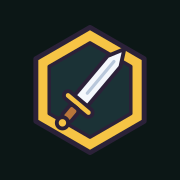
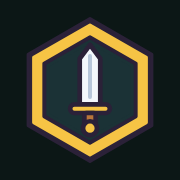
Add files via upload

Changed region(s): [[0.1389, 0.0833, 0.8611, 0.9167]]

diff --git a/index.html b/index.html
@@ -501,7 +501,7 @@ body{text-wrap:pretty;}
 .ts-cheer{display:none;}
 .ts-logo{position:absolute; left:0; right:0; top:calc(12vh + env(safe-area-inset-top,0px)); text-align:center; animation:tsDrop .8s cubic-bezier(.3,1.5,.5,1) both;}
 .ts-logo svg{display:block; width:min(86%,400px); height:auto; margin:0 auto;}
-.ts-sub{display:inline-block; margin-top:2px; font-family:var(--disp); font-size:18px; letter-spacing:.04em; background:#2B2138; color:#FFF3B0; padding:2px 16px 3px; border-radius:999px;}
+.ts-sub{display:inline-block; margin-top:2px; font-family:var(--disp); font-size:18px; letter-spacing:.04em; background:#2B2138; color:#FFF3B0; padding:4.5px 16px .5px; border-radius:999px;}
 @keyframes tsDrop{from{transform:translateY(-40px); opacity:0;}to{transform:none; opacity:1;}}
 .ts-info{position:absolute; top:calc(12px + env(safe-area-inset-top,0px)); font-size:13px; font-weight:700; background:rgba(20,14,34,.35); padding:2px 10px; border-radius:999px;}
 .ts-day{left:14px;} .ts-ver{right:14px; font-weight:500;}
@@ -1321,7 +1321,7 @@ var D = {
   sideplank:'옆으로 누워 팔꿈치로 몸을 받치고 일자로 버티는 동작이에요.',
   sidelift:'옆으로 누워 몸을 일자로 둔 채, 위쪽 다리를 천천히 들어 올렸다 내리는 동작이에요. 허벅지 바깥과 엉덩이 옆 근육을 써요.',
   inchworm:'서서 허리를 숙여 손으로 바닥을 걸어 플랭크 자세까지 갔다가, 다시 손으로 걸어 돌아와 일어서는 동작이에요.',
-  s1:'고개를 옆으로 기울이고 손으로 살짝 눌러 목과 어깨 옆을 늘려요.',
+  s1:'고개를 옆으로 기울이고 손으로 살짝 눌러 목과 어깨\u00a0옆을\u00a0늘려요.',
   s2:'문틀에 팔을 걸고 몸을 앞으로 내밀어 가슴 앞쪽을 늘려요.',
   s3:'한쪽 발목을 잡아 엉덩이 쪽으로 당겨 허벅지 앞을 늘리고, 앉아서 다리를 펴 뒤쪽도 늘려요.',
   s4:'벽을 밀며 한 다리를 뒤로 빼고, 뒤꿈치를 바닥에 붙여 종아리를 늘려요.'
@@ -1367,8 +1367,12 @@ function bStar(cx,cy,r,fill){
   return '<polygon points="'+p.join(' ')+'" fill="'+fill+'" stroke="'+OL+'" stroke-width="2" stroke-linejoin="round"/>';
 }
 /* ---------- 앱 버전 ---------- */
-var APP_VER='1.46.2', APP_DATE='2026-10-06', showChg=false;
+var APP_VER='1.46.6', APP_DATE='2026-10-07', showChg=false;
 var CHANGES=[
+  ['1.46.6','시작화면을 다듬었어요. 수요일 먼 산의 탑 꼭대기가 잘려 보이던 것을 고쳤어요. 부제목 "몸짱용사의 모험" 글씨가 알약 모양 칸의 정가운데에 오도록 맞췄어요'],
+  ['1.46.5','앱 아이콘을 새로 바꿨어요. 랭크 배지와 같은 금빛 육각형 안에 검이 똑바로 서 있어요. 이미 설치한 폰에서는 아이콘이 바로 바뀌지 않을 수 있어요'],
+  ['1.46.4','첫 주 안내를 더 부드럽게 했어요. 첫 마왕전이 있는 토요일에도 주간 퀘스트 카드가 빨간 "못 미쳤어요" 대신 "첫 주는 연습전이에요"로 보여요. 일요일에 처음 시작하면 시작하기 전의 주를 "패배한 주"라고 하지 않고 "이번 주는 시작하기 전이었어요"로 보여 줘요'],
+  ['1.46.3','새싹의 길에서 "쉬운 동작" 안내 문장을 자연스럽게 고쳤어요(예: "처음엔 발 간격을 넓혀서 해 봐요"). 자세 팁의 "~로·으로" 조사도 바로잡았어요. 첫 7일 안에는 주간 퀘스트 카드가 빨간 "어려워요" 대신 "첫 주는 연습전이에요"로 보여요. 달리기와 걷기 안내가 줄 끝에서 갈라지지 않게 다듬었어요'],
   ['1.46.2','식단 사이드 퀘스트와 반디 안내의 줄바꿈을 다듬었어요. 긴 안내 글의 마지막 줄에 짧은 말만 남지 않게 하고, "사용 중"·"한 끼"처럼 붙어 있어야 할 말이 갈라지지 않게 했어요'],
   ['1.46.1','식단 사이드 퀘스트 문구를 누구나 따라 하기 쉽게 바꿨어요. 점심과 운동 후 식사는 예시를 보고 고를 수 있고, 영주의 특별보급은 오늘의 연회로 이름을 바꾸고 설명을 더했어요'],
   ['1.46.0','테스트 기간에는 앱을 연 날짜가 기록돼요. 로그인하면 개발자가 볼 수 있어요. 처형 기술 이름 몸짱일도양단은 일도양단으로 바꿨어요'],
@@ -4879,7 +4883,7 @@ function altHtml(k,L,lock){
   h+='<ol>'+R.steps.map(function(t){ return '<li>'+t+'</li>'; }).join('')+'</ol>';
   h+='<ul class="altmv">'+ALT_MOVES.map(function(m){ return '<li><b>'+m[0]+'</b> · '+m[1]+' '+vidQ(ALT_VID[m[0]]||m[0])+'</li>'; }).join('')+'</ul>';
   h+='<p class="note" style="margin:6px 0 8px">점프 없이 발이 바닥에서 떨어지지 않는 동작만 골랐어요. 요가 매트나 푹신한 슬리퍼를 쓰면 소리가 더 줄어요. 늦은 밤에는 섀도복싱과 서서 니업 크런치 위주로 해도 좋아요. 통증이 있으면 바로 멈춰요.</p>';
-  var sub=(need&&!sv)?'먼저 위에서 이유를 골라 주세요':'거리(km)는 올라가지 않지만 XP와 퀘스트 완료는 러닝·걷기와 똑같이 인정돼요';
+  var sub=(need&&!sv)?'먼저 위에서 이유를 골라 주세요':'거리(km)는 올라가지 않지만 XP와 퀘스트 완료는 러닝과 걷기와 똑같이 인정돼요';
   h+=check(!!L.alt,'실내 유산소 완료',sub,'alt','',lock||!st.can||(need&&!sv),runXpOn(k));
   return h+'</div>';
 }
@@ -5380,8 +5384,10 @@ function weeklyHtml(d){
   }else{
     msg=W.allOver?(W.cur+' XP로 '+G+' XP에 못 미'+(sp?'친 주였어요':'쳤어요')):('이번 주는 최대 '+W.mx+' XP라 마왕성 도전이 어려워요');
     sub=W.allOver?(sp?'마왕의 저주로 마왕성에서 패배한 주였어요.':'마왕의 저주로 마왕성에서는 패배하는 주예요.'):'남은 날을 모두 채워도 '+G+' XP에 닿지 못해요.';
+    if((!W.allOver || !sp) && firstWeekFree(addDays(W.mon,5))){ st='go'; msg='첫 주는 연습전이에요'; }   /* v1.46.4: 첫 마왕전 당일(토요일)에도 같아요 */   /* v1.46.3: 새 사용자에게 첫날부터 빨간 "어려워요"를 보이지 않아요 */
     if(firstWeekFree(addDays(W.mon,5))) sub=(W.allOver?(sp?'시작한 첫 7일 안의 마왕전이라 마왕의 저주 없이 연습전으로 끝난 주였어요.':'시작한 첫 7일 안의 마왕전이라 마왕의 저주 없이 연습전으로 치러요.'):'시작한 첫 7일 안의 마왕전이라, 못 채워도 마왕의 저주는 없어요.');
-    if(tOpen && !tBuilt) sub+=' 왕국에서 훈련장을 복구하면 XP를 보충할 수 있어요.';
+    if(W.cur===0 && fmt(addDays(W.mon,5))<fmt(parse(S.start))){ st='go'; msg='이번 주는 시작하기 전이었어요'; sub='시작한 첫 7일 안의 마왕전은 연습전이라, 못 채워도 마왕의 저주는\u00a0없어요.'; }   /* v1.46.4: 시작하기 전 주에 \"패배한 주\"라고 하지 않아요 */
+    if(tOpen && !tBuilt) sub+=' 왕국에서 훈련장을 복구하면 XP를 보충할\u00a0수\u00a0있어요.';
   }
   var dd=W.days.map(function(x){
     return '<div class="wq-day'+(x.done?' done':'')+(x.isT?' cur':'')+(x.fut?' fut':'')+'"><small>'+x.lab+(x.isT?' · 오늘':'')+'</small><b>'+(x.fut?'–':x.xp)+'</b></div>';
@@ -5392,12 +5398,16 @@ function weeklyHtml(d){
     '<p class="wq-st">'+msg+'</p>'+(sub?'<p class="wq-sub">'+sub+'</p>':'')+'<div class="wq-days">'+dd+'</div></section>';
 }
 
+/* v1.46.3 새싹의 길 "쉬운 동작" 문장(예전 "처음엔 ○○(으)로 시작해요" 틀은 문장이 어색한 동작이 많았어요) / 받침에 맞는 "로·으로" */
+var EASYS={pushup:['무릎 푸시업','부터 해 봐요'],pike:['엉덩이를 낮춘 파이크','부터 해 봐요'],dips:['무릎을 굽혀서',' 해 봐요'],squat:['의자에 앉았다 일어나기','부터 해 봐요'],lunge:['벽을 잡고 런지','부터 해 봐요'],bridge:['발 간격을 넓혀서',' 해 봐요'],calf:['양발 동시에',' 해 봐요'],crunch:['팔을 무릎 쪽으로 뻗는 동작','부터 해 봐요'],legraise:['무릎을 굽힌 레그 레이즈','부터 해 봐요'],bicycle:['천천히',' 해 봐요'],deadbug:['팔만 움직이는 동작','부터 해 봐요'],superman:['팔과 다리를 번갈아',' 들어 봐요'],snow:['팔을 낮게',' 들고 해 봐요'],ytw:['가슴을 바닥에 둔 채 팔만 드는 동작','부터 해 봐요'],bulg:['뒤 발을 바닥에 두고',' 해 봐요'],sidelift:['무릎을 굽힌 채 올리는 동작','부터 해 봐요'],inchworm:['무릎을 굽힌 채로',' 해 봐요'],plank:['무릎 플랭크','부터 해 봐요'],mtn:['천천히 걷듯이',' 해 봐요'],wallsit:['조금 높게 앉아서',' 해 봐요'],sideplank:['무릎을 굽혀서',' 해 봐요']};
+function easyHtml(id,e){ var a=EASYS[id]||[e.e,' 해 봐요']; return '처음엔 <b>'+a[0]+'</b>'+a[1]; }
+function roP(t){ t=String(t); var c=t.charCodeAt(t.length-1), f; if(c>=0xAC00 && c<=0xD7A3){ f=(c-0xAC00)%28; return (f===0||f===8)?'로':'으로'; } return '으로'; }
 function viewToday(){
   var d=sel, k=fmt(d), dk=DK[d.getDay()], p=PLAN[dk], L=rd(k), dfc=diffOn(k), st=(dfc==='sprout')?Math.min(stageIdx(),1):stageIdx(), c=count(d);
   var isToday=(k===fmt(TODAY)), ids=idsFor(dk,k), lock=isEnded(k), lockM=lock||!!L.fin, rs=dayResult(d), bossHtml='';
   if(p.circuit){
     bossHtml='<div class="bossrule">'+
-      '<p>'+SAT_GOAL+' XP 이상이면 마왕성에서 승리할 수 있어요 (+150 XP 보너스). 못 미치거나 오늘 메인 퀘스트와 러닝·걷기를 못 채우고 모험을 마치면 패배해요.'+(firstWeekFree(d)?' 시작한 첫 7일 안의 마왕전이라 XP가 모자라도 마왕의 저주는 없어요.':'')+'</p></div>';
+      '<p>'+SAT_GOAL+' XP 이상이면 마왕성에서 승리할 수 있어요 (+150 XP 보너스). 못 미치거나 오늘 메인 퀘스트와 러닝과 걷기를 못 채우고 모험을 마치면 패배해요.'+(firstWeekFree(d)?' 시작한 첫 7일 안의 마왕전이라 XP가 모자라도 마왕의 저주는 없어요.':'')+'</p></div>';
   }
   var maxXp = 3*XP_MEAL+XP_CLEAR+(p.circuit?BOSS_WIN_XP:(p.rest?0:MID_XP)); ids.forEach(function(id){ maxXp+=xpOf(id,k); });
   var h='<p class="eyebrow">'+longDate(d)+(isToday?' · 오늘':'')+'</p>'+hud()+weeklyHtml(d);
@@ -5415,13 +5425,13 @@ function viewToday(){
 
   var run = p.rest?RUN_REST:RUN, rmin=runMinOn(k);
   if(!p.rest && dfc!=='body'){
-    run={label:(dfc==='sprout'?'걷기 또는 달리기 '+rmin+'km':'러닝 또는 걷기 '+rmin+'km'),sub:rmin+'km 이상 입력하면 완료'+(dfc==='sprout'?' · 걷기만으로도 충분해요':'')+((dfc==='adv'&&(dk==='wed'||dk==='fri'))?' · 어제 하체 운동을 했으니 가볍게 걷거나 천천히 뛰어도 인정돼요':'')};
+    run={label:(dfc==='sprout'?'걷기 또는 달리기 '+rmin+'km':'러닝 또는 걷기 '+rmin+'km'),sub:rmin+'km 이상 입력하면 완료'+(dfc==='sprout'?'돼요. 걷기만으로도 충분해요':'')+((dfc==='adv'&&(dk==='wed'||dk==='fri'))?'돼요. 어제 하체 운동을 했으니 가볍게 걷거나 천천히 뛰어도 인정돼요':'')};
   }
   if(hasRun(dk,k)){
     h+='<h2>'+(p.rest?'일일 러닝':'러닝 또는 걷기')+'</h2><div class="q">'+(p.rest?check(!!L.done.run,run.label,run.sub,'run','',lock,XP_RUN):runRow(!!L.done.run,run.label,run.sub,runXpOn(k)))+kmRow(L,p.rest,lockM,k)+'</div>';
     if(!p.rest) h+=altHtml(k,L,lockM);
   }else{
-    h+='<p class="note" style="margin:14px 2px 0">오늘은 '+themeOf(dk,k).replace(/ ·.*$/,'')+'이에요. 러닝·걷기는 쉬어요.</p>';
+    h+='<p class="note" style="margin:14px 2px 0">오늘은 '+themeOf(dk,k).replace(/ ·.*$/,'')+'이에요. 러닝과 걷기는 쉬어요.</p>';
   }
   if(exFor(dk,k).length) h+='<h2>메인 퀘스트</h2>';
 
@@ -5433,7 +5443,7 @@ function viewToday(){
     var exDone=(doneN===n), swBtn='';
     if(e.t){ var sm=String(dose).match(/(\d+)\s*초/); if(sm){ var side=String(dose).indexOf('한쪽')>=0; swBtn='<button type="button" class="swbtn" data-a="sw" data-sec="'+sm[1]+'" data-name="'+e.n+'">▶ '+(side?'한쪽 ':'')+sm[1]+'초 타이머</button>'; } }
     h+='<div class="q ex'+(exDone?' ok':'')+'"><div class="ex-head"><span class="idx" aria-hidden="true">'+(ix+1)+'</span><h3 class="ex-name">'+e.n+'</h3>'+(isB?'<span class="bonustag">보너스</span>':'')+rewChip(n*setXpOn(k),exDone)+'</div>'+
-       '<p class="desc">'+(D[id]||'')+'</p>'+((dfc==='sprout'&&e.e)?'<p class="easy">처음엔 <b>'+e.e+'</b>(으)로 시작해요</p>':'')+
+       '<p class="desc">'+(D[id]||'')+'</p>'+((dfc==='sprout'&&e.e)?'<p class="easy">'+easyHtml(id,e)+'</p>':'')+
        '<p class="dose">목표 <b>'+(e.one?dose:(SETS+(p.circuit?'라운드':'세트')+' × '+dose))+'</b></p>'+swBtn+(isB?'<p class="note" style="margin:6px 0 0">오늘은 이미 확정된 날이라 보너스로 해요. 클리어 여부는 그대로이고 XP만 더해져요.</p>':'');
     if(e.one){
       h+='<div class="sets"><button type="button" class="set wide" aria-pressed="'+(L.done[id+'-1']?'true':'false')+'" data-a="set" data-id="'+id+'-1" data-one="1"'+(lk?' disabled':'')+'>'+(L.done[id+'-1']?'완료':'했어요')+'</button></div>';
@@ -5449,7 +5459,7 @@ function viewToday(){
       h+=figHtml(id,e.n);
       h+='<ul class="tips">'+e.tips.map(function(t){return '<li>'+t+'</li>';}).join('')+'</ul>';
       if(e.e){
-        h+=(dfc==='sprout'?'<ul class="var"><li>쉬운 동작으로 시작해요: '+e.e+'</li><li>익숙해지면 표준 동작 "'+e.n+'"으로 올려요</li></ul>':'<ul class="var"><li>어려우면: '+e.e+'</li><li'+(st===2?' class="push"':'')+'>'+(st===2?'이번 주부터 도전: ':'익숙해지면: ')+e.h+'</li></ul>');
+        h+=(dfc==='sprout'?'<ul class="var"><li>'+easyHtml(id,e)+'</li><li>익숙해지면 표준 동작 "'+e.n+'"'+roP(e.n)+' 올려요</li></ul>':'<ul class="var"><li>어려우면: '+e.e+'</li><li'+(st===2?' class="push"':'')+'>'+(st===2?'이번 주부터 도전: ':'익숙해지면: ')+e.h+'</li></ul>');
       }
       h+=vidLink(e.n);
     }
@@ -6379,14 +6389,14 @@ var BANDI={
   },
   /* 상황별 첫 안내(v1.42.4): 새 사용자에게만, 각 한 번. h=제목, x=본문(문자열 또는 함수). 문구 교체는 여기만 */
   tips:{
-    today:{h:'오늘 할 일은 여기 있어요!',x:'운동 동작은 세트마다 체크하고, 식단 세 가지도 체크해요. 달리기·걷기는 하는 날에만 있어요. 다 못 해도 괜찮아요. 내일 다시 시작하면 돼요.'},
+    today:{h:'오늘 할 일은 여기 있어요!',x:'운동 동작은 세트마다 체크하고, 식단 세 가지도 체크해요. 달리기와 걷기는 하는 날에만 있어요. 다 못 해도 괜찮아요. 내일 다시 시작하면 돼요.'},
     boss:{h:function(w){ return w==='sat'?'오늘은 마왕전이에요!':'내일은 마왕전이에요!'; },
       x:function(w){
         var d=(w==='sat')?TODAY:addDays(TODAY,1);
         return (w==='sat'?'평일 퀘스트로 모은 XP가 ':'이번 주 평일 퀘스트로 모은 XP가 ')+SAT_GOAL+' 이상이면 마왕성에 도전할 수 있어요. '+
           (firstWeekFree(d)?'처음 한 번은 XP가 모자라도 연습전이라 패배로 기록되지 않아요. 편하게 도전해 봐요!':'못 미치면 마왕의 저주로 패배로 기록되지만, 괜찮아요. 다음 주에 다시 도전하면 돼요.');
       }},
-    run:{h:'달린 거리는 여기에 쌓여요',x:function(){ return '거리는 퀘스트 탭에서 적어요. 걷기도 똑같이 인정돼요. 달리기·걷기가 있는 날엔 '+runMinOn(fmt(TODAY))+'km 이상 적으면 그날 퀘스트가 완료돼요. 비·눈 오는 날엔 퀘스트 탭에서 집 안 유산소로 바꿀 수도 있어요.'; }},
+    run:{h:'달린 거리는 여기에 쌓여요',x:function(){ return '거리는 퀘스트 탭에서 적어요. 걷기도 똑같이 인정돼요. 달리기와 걷기가 있는 날엔 '+runMinOn(fmt(TODAY))+'km 이상 적으면 그날 퀘스트가 완료돼요. <span style="white-space:nowrap">비·눈</span> 오는 날엔 퀘스트 탭에서 집 안 유산소로 바꿀 수도 있어요.'; }},
     kingdom:{h:'여기가 몸짱왕국이에요',x:'퀘스트와 토벌로 건축 자재가 쌓이면 무너진 건물을 하나씩 되살릴 수 있어요. 마왕과 중간보스를 이기면 장비를 만들 재료도 얻어요. 건물을 눌러 들어가 보세요!'},
     inn:{h:'여기는 여관이에요!',x:'얻은 장비를 입어 보고, 장비 도감을 볼 수 있어요. 동료가 합류하면 함께 모험할 캐릭터도 여기서 골라요. 여주인 로사에게 말을 걸어 보세요.'},
     train:{h:'훈련장이에요!',x:'마왕전을 앞두고 XP가 모자랄 때 추가로 훈련할 수 있어요. 교관 가론에게 말을 걸면 훈련 기록이 열려요. 훈련 XP는 월~금 누적에 더해지지만 1000을 넘는 부분은 기록만 남아요.'},
@@ -6404,10 +6414,10 @@ var BANDI={
   ],
   /* 언제든 부르는 도움말: [제목, 답] */
   help:[
-    ['오늘은 뭘 하면 돼요?','퀘스트 탭에 오늘 할 일이 모두 나와요. 운동 동작을 세트마다 체크하고, 달리기·걷기는 거리를 적고(하는 날만 있어요), 식단 세 가지를 체크해요. 다 마치면 \'오늘의 모험 종료\'를 눌러 마무리하면 돼요. 못 마친 날이 있어도 괜찮아요. 다음 날 다시 시작하면 돼요.'],
+    ['오늘은 뭘 하면 돼요?','퀘스트 탭에 오늘 할 일이 모두 나와요. 운동 동작을 세트마다 체크하고, 달리기와 걷기는 거리를 적고(하는 날만 있어요), 식단 세 가지를 체크해요. 다 마치면 \'오늘의 모험 종료\'를 눌러 마무리하면 돼요. 못 마친 날이 있어도 괜찮아요. 다음 날 다시 시작하면 돼요.'],
     ['마왕전이 뭐예요?','토요일엔 마왕과 싸워요. 월~금 퀘스트로 1000XP 이상 모으면 도전할 수 있고, 마왕성 퀘스트를 모두 하면 마왕을 토벌해요. 1000XP에 못 미치면 \'마왕의 저주\'로 패배해요. 단, 시작하고 7일 안의 마왕전은 XP가 모자라도 연습전이라 패배로 기록되지 않아요.'],
-    ['비 오는 날엔 어떡해요?','비·눈이 오는 날엔 달리기·걷기를 집 안 유산소로 바꿀 수 있어요(층간소음이 적은 동작만이에요). XP와 클리어는 똑같이 인정되지만, 달린 거리(km)는 올라가지 않아요. 폭염·한파·미세먼지·빙판길 같은 날엔 이유를 골라 주 3회까지 바꿀 수 있어요.'],
-    ['달리기·걷기 거리는 어디에 적어요?',function(){ return BANDI.tips.run.x(); }],
+    ['비 오는 날엔 어떡해요?','<span style="white-space:nowrap">비·눈</span>이 오는 날엔 달리기와 걷기를 집 안 유산소로 바꿀 수 있어요(층간소음이 적은 동작만이에요). XP와 클리어는 똑같이 인정되지만, 달린 거리(km)는 올라가지 않아요. <span style="white-space:nowrap">폭염·한파·미세먼지·빙판길</span> 같은 날엔 이유를 골라 주 3회까지 바꿀 수 있어요.'],
+    ['달리기와 걷기 거리는 어디에 적어요?',function(){ return BANDI.tips.run.x(); }],
     ['왕국에서는 뭘 해요?',function(){ return BANDI.tips.kingdom.x; }],
     ['대장간은 뭘 하는 곳이에요?',function(){ return BANDI.tips.forge.x; }]
   ]
@@ -7597,7 +7607,7 @@ var titleBuildD=null;
     '.td-haze{position:absolute;left:0;right:0;top:'+(CR-5)+'vh;height:10vh;pointer-events:none;}'+
     '.td-dest{position:absolute;left:50%;bottom:calc(100% - 42.4vh);transform:translateX(-50%);display:flex;flex-direction:column;align-items:center;}'+
     '.td-dest svg{display:block;width:100px;height:auto;margin-top:2px;}'+
-    '@media (max-height:700px){.td-dest svg{width:80px;} .td .ts-logo{top:calc(1.5vh + env(safe-area-inset-top,0px));} .td .ts-logo svg{width:min(54%,220px);} .td .ts-day,.td .ts-wx{font-size:11px;padding:1px 8px;} .td .ts-sub{font-size:14px;padding:1px 12px 2px;}}'+
+    '@media (max-height:700px){.td-dest svg{width:80px;} .td .ts-logo{top:calc(1.5vh + env(safe-area-inset-top,0px));} .td .ts-logo svg{width:min(54%,220px);} .td .ts-day,.td .ts-wx{font-size:11px;padding:1px 8px;} .td .ts-sub{font-size:14px;padding:2.75px 12px .25px;}}'+
     '.td .ts-cl{bottom:auto;top:15vh;}'+
     '.td .ts-logo{top:calc(11vh + env(safe-area-inset-top,0px));}'+
     '.td .ts-stars{inset:0 0 auto 0;height:'+YH+'vh;}'+
@@ -7707,9 +7717,11 @@ var titleBuildD=null;
       s+='<path d="M0,210 L0,166 C80,138 150,150 230,168 S380,136 470,160 S590,150 640,164 L640,210 Z" fill="'+c2+'"/>';
       s+='<path d="M0,166 C80,138 150,150 230,168 S380,136 470,160 S590,150 640,164" fill="none" stroke="'+OL+'" stroke-width="3" opacity=".4"/>';
     }else if(kind==='towers'){
+      s+='<g transform="translate(0,12)">';
       s+='<path d="M0,210 L0,120 L70,66 L130,112 L210,34 L300,120 L360,84 L440,138 L520,54 L600,114 L640,122 L640,210 Z" fill="'+c1+'"/>';
       [[70,66],[210,34],[520,54],[360,84]].forEach(function(p){ s+='<g fill="#E9E1F5" stroke="'+OL+'" stroke-width="1.6" opacity=".92"><rect x="'+(p[0]-6)+'" y="'+(p[1]-26)+'" width="12" height="26"/><path d="M'+(p[0]-9)+','+(p[1]-26)+' L'+p[0]+','+(p[1]-42)+' L'+(p[0]+9)+','+(p[1]-26)+' Z" fill="#6A8FE0"/></g>'; });
       s+='<path d="M0,210 L0,164 L60,138 L150,172 L240,112 L330,168 L420,128 L500,178 L580,124 L640,160 L640,210 Z" fill="'+c2+'"/>';
+      s+='</g>';
     }else{ /* peaks */
       s+='<path d="M0,210 L0,120 L70,62 L130,108 L210,30 L300,118 L360,82 L440,138 L520,50 L600,112 L640,120 L640,210 Z" fill="'+c1+'"/>';
       s+='<path d="M0,210 L0,160 L60,132 L140,170 L230,106 L320,166 L400,126 L490,176 L570,122 L640,160 L640,210 Z" fill="'+c2+'"/>';

diff --git a/sw.js b/sw.js
@@ -1,7 +1,7 @@
 /* 몸짱소울 서비스 워커: 한 번 열어 두면 오프라인에서도 열려요.
    앱을 수정해서 다시 올릴 때는 아래 VERSION 숫자를 올려 주세요. */
-var VERSION = 'momjjang-soul-v46-2';
-var SHELL = ['./','./index.html','./manifest.webmanifest','./icon-192.png','./icon-512.png','./apple-touch-icon.png'];
+var VERSION = 'momjjang-soul-v46-6';
+var SHELL = ['./','./index.html','./manifest.webmanifest','./icon-192.png','./icon-512.png','./icon-maskable-512.png','./apple-touch-icon.png'];
 
 self.addEventListener('install', function(e){
   e.waitUntil(caches.open(VERSION).then(function(c){ return c.addAll(SHELL.map(function(u){ return new Request(u,{cache:'reload'}); })); }).then(function(){ return self.skipWaiting(); }));
